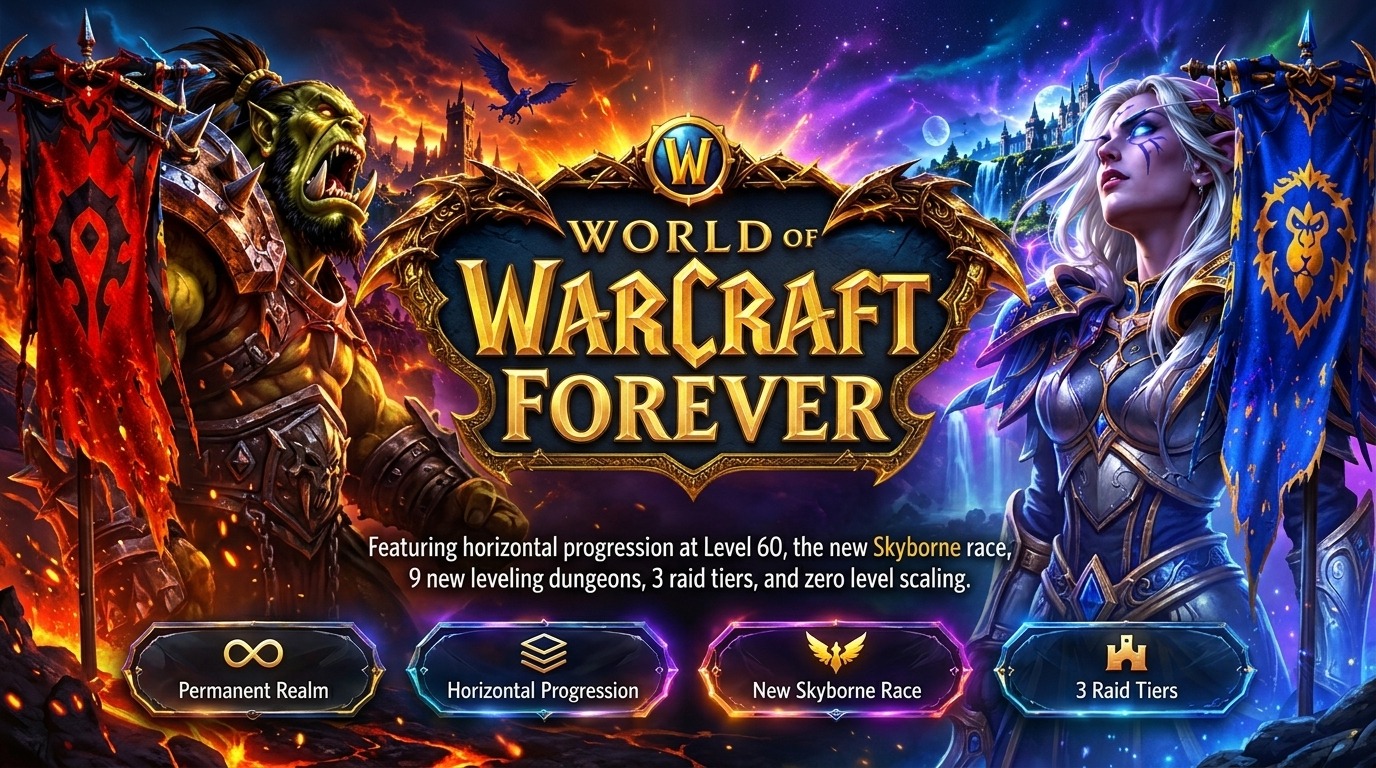
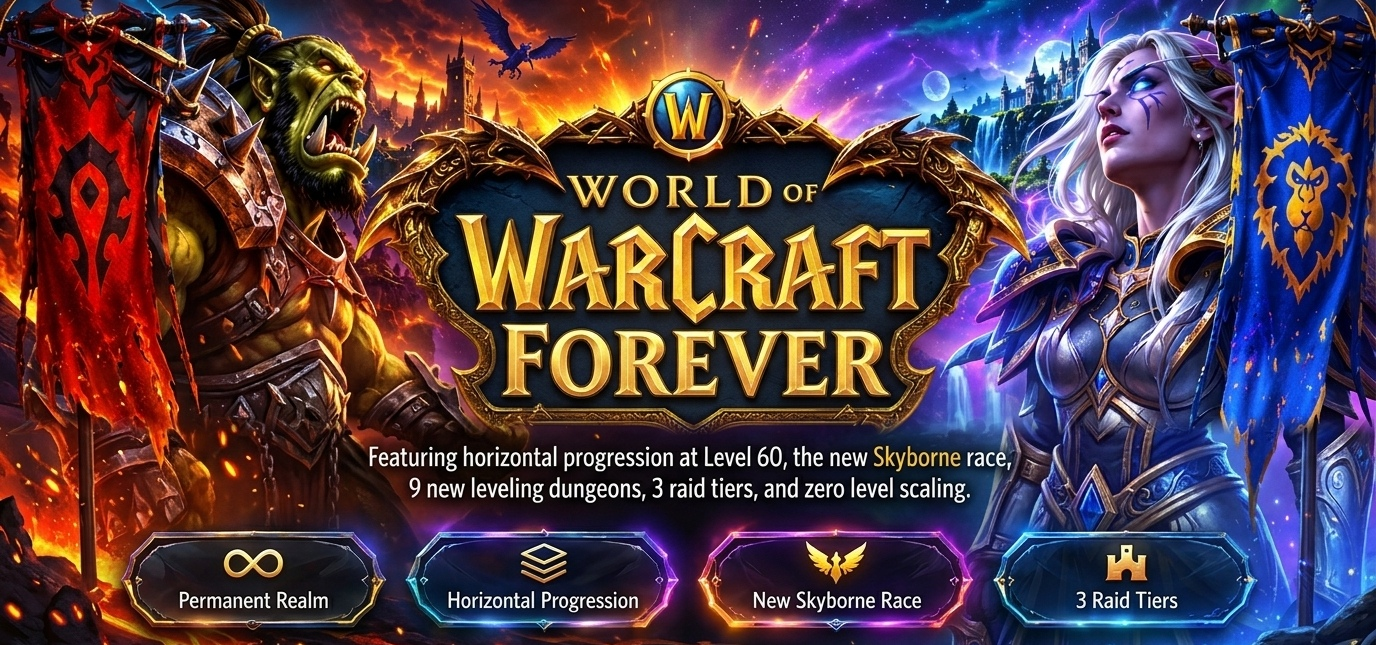
feat(ui): relocate live status bar and 21-button command console below hero graphic

diff --git a/website/index.html b/website/index.html
@@ -171,199 +171,9 @@
         
         <!-- Hero Stage with Cinematic Dual-Faction Backdrop -->
         <div class="hub-hero-stage">
-          <img src="images/branding/hub/hub-hero-banner.jpg" class="hub-hero-banner-img" alt="World of Warcraft: Forever — The Permanent Classic+ Adventure" width="1376" height="768">
+          <img src="images/branding/hub/hub-hero-banner.jpg" class="hub-hero-banner-img" alt="World of Warcraft: Forever — The Permanent Classic+ Adventure" width="1376" height="645">
         </div>
 
-        <!-- 5 Main Feature Portal Cards -->
-        <div class="hub-cards-grid">
-          
-          <!-- Card 1: Getting Started (Amber/Gold) -->
-          <div class="hub-card hub-card-amber" data-target-tab="guides" role="button" tabindex="0" aria-label="Getting Started - New to Forever? Start here.">
-            <div class="hub-card-bg" style="background-image: url('images/branding/hub/vibrant-card-getting-started.png');"></div>
-            <div class="hub-card-overlay"></div>
-            <div class="hub-card-body">
-              <div>
-                <h3 class="hub-card-title">Getting Started</h3>
-                <p class="hub-card-desc">New to Forever? Start here.</p>
-              </div>
-              <span class="hub-card-btn">Explore <span class="hub-card-btn-arrow">→</span></span>
-            </div>
-          </div>
-
-          <!-- Card 2: Classes & Builds (Blue/Azure) -->
-          <div class="hub-card hub-card-blue" data-target-tab="talents" role="button" tabindex="0" aria-label="Classes and Builds - Class guides, deep dives, and talent planning.">
-            <div class="hub-card-bg" style="background-image: url('images/branding/hub/vibrant-card-classes-builds.png');"></div>
-            <div class="hub-card-overlay"></div>
-            <div class="hub-card-body">
-              <div>
-                <h3 class="hub-card-title">Classes &amp; Builds</h3>
-                <p class="hub-card-desc">Class guides, deep dives, and talent planning.</p>
-              </div>
-              <span class="hub-card-btn">Explore <span class="hub-card-btn-arrow">→</span></span>
-            </div>
-          </div>
-
-          <!-- Card 3: Gear & Progression (Orange/Bronze) -->
-          <div class="hub-card hub-card-orange" data-target-tab="bis" role="button" tabindex="0" aria-label="Gear and Progression - Items, BiS lists, tier sets, and gearing paths.">
-            <div class="hub-card-bg" style="background-image: url('images/branding/hub/vibrant-card-gear-progression.png');"></div>
-            <div class="hub-card-overlay"></div>
-            <div class="hub-card-body">
-              <div>
-                <h3 class="hub-card-title">Gear &amp; Progression</h3>
-                <p class="hub-card-desc">Items, BiS lists, tier sets, and gearing paths.</p>
-              </div>
-              <span class="hub-card-btn">Explore <span class="hub-card-btn-arrow">→</span></span>
-            </div>
-          </div>
-
-          <!-- Card 4: World & Content (Emerald/Green) -->
-          <div class="hub-card hub-card-green" data-target-tab="codex" role="button" tabindex="0" aria-label="World and Content - Dungeons, raids, world content, and systems.">
-            <div class="hub-card-bg" style="background-image: url('images/branding/hub/vibrant-card-world-content.png');"></div>
-            <div class="hub-card-overlay"></div>
-            <div class="hub-card-body">
-              <div>
-                <h3 class="hub-card-title">World &amp; Content</h3>
-                <p class="hub-card-desc">Dungeons, raids, world content, and systems.</p>
-              </div>
-              <span class="hub-card-btn">Explore <span class="hub-card-btn-arrow">→</span></span>
-            </div>
-          </div>
-
-          <!-- Card 5: Tools & Resources (Arcane/Purple) -->
-          <div class="hub-card hub-card-purple" data-target-tab="tierlist" role="button" tabindex="0" aria-label="Tools and Resources - Calculators, trackers, and community tools.">
-            <div class="hub-card-bg" style="background-image: url('images/branding/hub/vibrant-card-tools-resources.png');"></div>
-            <div class="hub-card-overlay"></div>
-            <div class="hub-card-body">
-              <div>
-                <h3 class="hub-card-title">Tools &amp; Resources</h3>
-                <p class="hub-card-desc">Calculators, trackers, and community tools.</p>
-              </div>
-              <span class="hub-card-btn">Explore <span class="hub-card-btn-arrow">→</span></span>
-            </div>
-          </div>
-
-        </div>
-
-        <!-- Quick Access Ribbon -->
-        <div class="hub-quick-access-bar" aria-label="Quick Access Ribbon">
-          <span class="hub-quick-access-label">⚡ Quick Access</span>
-          <button type="button" class="hub-quick-access-btn qa-amber" data-target-tab="overview">
-            <span class="qa-icon">🏛</span> <span class="qa-btn-text">Operations Hub</span>
-          </button>
-          <button type="button" class="hub-quick-access-btn qa-blue" data-target-tab="guides">
-            <span class="qa-icon">📖</span> <span class="qa-btn-text">Classic+ Guide</span>
-          </button>
-          <button type="button" class="hub-quick-access-btn qa-green" data-target-tab="talents" id="quick-link-talent-calc">
-            <span class="qa-icon">⚡</span> <span class="qa-btn-text">Talents</span>
-          </button>
-          <button type="button" class="hub-quick-access-btn qa-purple" data-target-tab="tierlist">
-            <span class="qa-icon">🏆</span> <span class="qa-btn-text">Tier List Maker</span>
-          </button>
-          <button type="button" class="hub-quick-access-btn qa-purple" data-target-tab="database">
-            <span class="qa-icon">📦</span> <span class="qa-btn-text">Item DB &amp; Market</span>
-          </button>
-          <button type="button" class="hub-quick-access-btn qa-cyan" data-target-tab="downrank">
-            <span class="qa-icon">🧪</span> <span class="qa-btn-text">Downrank Calc</span>
-          </button>
-          <button type="button" class="hub-quick-access-btn qa-green" data-target-tab="changes">
-            <span class="qa-icon">🔄</span> <span class="qa-btn-text">What's Changed</span>
-          </button>
-          <button type="button" class="hub-quick-access-btn qa-orange" data-target-tab="addons">
-            <span class="qa-icon">🧩</span> <span class="qa-btn-text">Add-on Suite</span>
-          </button>
-          <button type="button" class="hub-quick-access-btn qa-blue" data-target-tab="tracker">
-            <span class="qa-icon">👥</span> <span class="qa-btn-text">Our Forever Squad</span>
-          </button>
-        </div>
-
-        <!-- 3-Column Bottom Deck -->
-        <div class="hub-bottom-deck">
-          
-          <!-- Column 1: Recent Updates -->
-          <div class="hub-deck-card">
-            <div>
-              <div class="hub-deck-card-header">
-                <span>📢</span> Recent Updates
-              </div>
-              <div class="hub-update-list">
-                <a class="hub-update-item" data-target-tab="news">
-                  <span class="hub-update-tag tag-blue">Update</span>
-                  <span class="hub-update-title">Skyborne Race Now Live</span>
-                  <span class="hub-update-date">Oct 30</span>
-                </a>
-                <a class="hub-update-item" data-target-tab="news">
-                  <span class="hub-update-tag tag-purple">Guide</span>
-                  <span class="hub-update-title">Phase 2 Raid Overview &amp; Prep</span>
-                  <span class="hub-update-date">Oct 28</span>
-                </a>
-                <a class="hub-update-item" data-target-tab="news">
-                  <span class="hub-update-tag tag-green">Tool</span>
-                  <span class="hub-update-title">Updated BiS Lists (All Classes)</span>
-                  <span class="hub-update-date">Oct 26</span>
-                </a>
-              </div>
-            </div>
-            <button type="button" class="hub-deck-footer-link" data-target-tab="news">
-              View All Updates →
-            </button>
-          </div>
-
-          <!-- Column 2: Featured Guide (Skyborne Race Guide) -->
-          <div class="hub-deck-card hub-featured-guide">
-            <div>
-              <div class="hub-featured-guide-badge">
-                <span>⚡</span> Featured Guide
-              </div>
-              <h3 class="hub-featured-guide-title">Skyborne Race Guide</h3>
-              <p class="hub-featured-guide-desc">
-                Racials, class synergies, and leveling tips for the new neutral faction race.
-              </p>
-            </div>
-            <div>
-              <button type="button" class="hub-card-btn hub-card-btn-featured" data-target-tab="guides" style="background: #38bdf8; color: #000; font-weight: 700; width: auto; padding: 0.45rem 1.25rem;">
-                Read Guide <span class="hub-card-btn-arrow">→</span>
-              </button>
-            </div>
-          </div>
-
-          <!-- Column 3: Community & External Tools -->
-          <div class="hub-deck-card">
-            <div>
-              <div class="hub-deck-card-header">
-                <span>👥</span> Community &amp; External Tools
-              </div>
-              <div class="hub-tools-grid">
-                <a href="https://foreverchanges.pro/" target="_blank" rel="noopener noreferrer" class="hub-tool-btn">
-                  <span>🌐</span> ForeverChanges
-                </a>
-                <a href="https://wowforevertools.com/" target="_blank" rel="noopener noreferrer" class="hub-tool-btn">
-                  <span>⚔</span> WoW Forever Tools
-                </a>
-                <a href="https://www.zockify.com/forever/" target="_blank" rel="noopener noreferrer" class="hub-tool-btn">
-                  <span>🧪</span> Zockify Forever
-                </a>
-                <a href="https://www.wowhead.com/forever" target="_blank" rel="noopener noreferrer" class="hub-tool-btn">
-                  <span>📖</span> Wowhead: Codex
-                </a>
-                <a href="https://mobalytics.gg/wow-forever" target="_blank" rel="noopener noreferrer" class="hub-tool-btn">
-                  <span>📊</span> Mobalytics: Meta
-                </a>
-                <a href="https://www.method.gg/wow-forever" target="_blank" rel="noopener noreferrer" class="hub-tool-btn">
-                  <span>🚀</span> Method.gg Launch
-                </a>
-              </div>
-            </div>
-            <a href="https://www.wowhead.com/forever" target="_blank" rel="noopener noreferrer" class="hub-deck-footer-link">
-              View All Resources →
-            </a>
-          </div>
-
-        </div>
-
-        <!-- Battlement Parapet Footer -->
-        <div class="hub-battlement-footer" aria-hidden="true"></div>
-
-      </section>
       <!-- Live Status & Event Horizon Bar -->
       <aside class="top-status-bar" aria-label="Game and Beta Status Bar" style="margin: 1.25rem 0 1rem; border-radius: var(--radius-md);">
         <div class="status-pulse-badge">
@@ -705,6 +515,196 @@
       </div>
 
 
+        <!-- 5 Main Feature Portal Cards -->
+        <div class="hub-cards-grid">
+          
+          <!-- Card 1: Getting Started (Amber/Gold) -->
+          <div class="hub-card hub-card-amber" data-target-tab="guides" role="button" tabindex="0" aria-label="Getting Started - New to Forever? Start here.">
+            <div class="hub-card-bg" style="background-image: url('images/branding/hub/vibrant-card-getting-started.png');"></div>
+            <div class="hub-card-overlay"></div>
+            <div class="hub-card-body">
+              <div>
+                <h3 class="hub-card-title">Getting Started</h3>
+                <p class="hub-card-desc">New to Forever? Start here.</p>
+              </div>
+              <span class="hub-card-btn">Explore <span class="hub-card-btn-arrow">→</span></span>
+            </div>
+          </div>
+
+          <!-- Card 2: Classes & Builds (Blue/Azure) -->
+          <div class="hub-card hub-card-blue" data-target-tab="talents" role="button" tabindex="0" aria-label="Classes and Builds - Class guides, deep dives, and talent planning.">
+            <div class="hub-card-bg" style="background-image: url('images/branding/hub/vibrant-card-classes-builds.png');"></div>
+            <div class="hub-card-overlay"></div>
+            <div class="hub-card-body">
+              <div>
+                <h3 class="hub-card-title">Classes &amp; Builds</h3>
+                <p class="hub-card-desc">Class guides, deep dives, and talent planning.</p>
+              </div>
+              <span class="hub-card-btn">Explore <span class="hub-card-btn-arrow">→</span></span>
+            </div>
+          </div>
+
+          <!-- Card 3: Gear & Progression (Orange/Bronze) -->
+          <div class="hub-card hub-card-orange" data-target-tab="bis" role="button" tabindex="0" aria-label="Gear and Progression - Items, BiS lists, tier sets, and gearing paths.">
+            <div class="hub-card-bg" style="background-image: url('images/branding/hub/vibrant-card-gear-progression.png');"></div>
+            <div class="hub-card-overlay"></div>
+            <div class="hub-card-body">
+              <div>
+                <h3 class="hub-card-title">Gear &amp; Progression</h3>
+                <p class="hub-card-desc">Items, BiS lists, tier sets, and gearing paths.</p>
+              </div>
+              <span class="hub-card-btn">Explore <span class="hub-card-btn-arrow">→</span></span>
+            </div>
+          </div>
+
+          <!-- Card 4: World & Content (Emerald/Green) -->
+          <div class="hub-card hub-card-green" data-target-tab="codex" role="button" tabindex="0" aria-label="World and Content - Dungeons, raids, world content, and systems.">
+            <div class="hub-card-bg" style="background-image: url('images/branding/hub/vibrant-card-world-content.png');"></div>
+            <div class="hub-card-overlay"></div>
+            <div class="hub-card-body">
+              <div>
+                <h3 class="hub-card-title">World &amp; Content</h3>
+                <p class="hub-card-desc">Dungeons, raids, world content, and systems.</p>
+              </div>
+              <span class="hub-card-btn">Explore <span class="hub-card-btn-arrow">→</span></span>
+            </div>
+          </div>
+
+          <!-- Card 5: Tools & Resources (Arcane/Purple) -->
+          <div class="hub-card hub-card-purple" data-target-tab="tierlist" role="button" tabindex="0" aria-label="Tools and Resources - Calculators, trackers, and community tools.">
+            <div class="hub-card-bg" style="background-image: url('images/branding/hub/vibrant-card-tools-resources.png');"></div>
+            <div class="hub-card-overlay"></div>
+            <div class="hub-card-body">
+              <div>
+                <h3 class="hub-card-title">Tools &amp; Resources</h3>
+                <p class="hub-card-desc">Calculators, trackers, and community tools.</p>
+              </div>
+              <span class="hub-card-btn">Explore <span class="hub-card-btn-arrow">→</span></span>
+            </div>
+          </div>
+
+        </div>
+
+        <!-- Quick Access Ribbon -->
+        <div class="hub-quick-access-bar" aria-label="Quick Access Ribbon">
+          <span class="hub-quick-access-label">⚡ Quick Access</span>
+          <button type="button" class="hub-quick-access-btn qa-amber" data-target-tab="overview">
+            <span class="qa-icon">🏛</span> <span class="qa-btn-text">Operations Hub</span>
+          </button>
+          <button type="button" class="hub-quick-access-btn qa-blue" data-target-tab="guides">
+            <span class="qa-icon">📖</span> <span class="qa-btn-text">Classic+ Guide</span>
+          </button>
+          <button type="button" class="hub-quick-access-btn qa-green" data-target-tab="talents" id="quick-link-talent-calc">
+            <span class="qa-icon">⚡</span> <span class="qa-btn-text">Talents</span>
+          </button>
+          <button type="button" class="hub-quick-access-btn qa-purple" data-target-tab="tierlist">
+            <span class="qa-icon">🏆</span> <span class="qa-btn-text">Tier List Maker</span>
+          </button>
+          <button type="button" class="hub-quick-access-btn qa-purple" data-target-tab="database">
+            <span class="qa-icon">📦</span> <span class="qa-btn-text">Item DB &amp; Market</span>
+          </button>
+          <button type="button" class="hub-quick-access-btn qa-cyan" data-target-tab="downrank">
+            <span class="qa-icon">🧪</span> <span class="qa-btn-text">Downrank Calc</span>
+          </button>
+          <button type="button" class="hub-quick-access-btn qa-green" data-target-tab="changes">
+            <span class="qa-icon">🔄</span> <span class="qa-btn-text">What's Changed</span>
+          </button>
+          <button type="button" class="hub-quick-access-btn qa-orange" data-target-tab="addons">
+            <span class="qa-icon">🧩</span> <span class="qa-btn-text">Add-on Suite</span>
+          </button>
+          <button type="button" class="hub-quick-access-btn qa-blue" data-target-tab="tracker">
+            <span class="qa-icon">👥</span> <span class="qa-btn-text">Our Forever Squad</span>
+          </button>
+        </div>
+
+        <!-- 3-Column Bottom Deck -->
+        <div class="hub-bottom-deck">
+          
+          <!-- Column 1: Recent Updates -->
+          <div class="hub-deck-card">
+            <div>
+              <div class="hub-deck-card-header">
+                <span>📢</span> Recent Updates
+              </div>
+              <div class="hub-update-list">
+                <a class="hub-update-item" data-target-tab="news">
+                  <span class="hub-update-tag tag-blue">Update</span>
+                  <span class="hub-update-title">Skyborne Race Now Live</span>
+                  <span class="hub-update-date">Oct 30</span>
+                </a>
+                <a class="hub-update-item" data-target-tab="news">
+                  <span class="hub-update-tag tag-purple">Guide</span>
+                  <span class="hub-update-title">Phase 2 Raid Overview &amp; Prep</span>
+                  <span class="hub-update-date">Oct 28</span>
+                </a>
+                <a class="hub-update-item" data-target-tab="news">
+                  <span class="hub-update-tag tag-green">Tool</span>
+                  <span class="hub-update-title">Updated BiS Lists (All Classes)</span>
+                  <span class="hub-update-date">Oct 26</span>
+                </a>
+              </div>
+            </div>
+            <button type="button" class="hub-deck-footer-link" data-target-tab="news">
+              View All Updates →
+            </button>
+          </div>
+
+          <!-- Column 2: Featured Guide (Skyborne Race Guide) -->
+          <div class="hub-deck-card hub-featured-guide">
+            <div>
+              <div class="hub-featured-guide-badge">
+                <span>⚡</span> Featured Guide
+              </div>
+              <h3 class="hub-featured-guide-title">Skyborne Race Guide</h3>
+              <p class="hub-featured-guide-desc">
+                Racials, class synergies, and leveling tips for the new neutral faction race.
+              </p>
+            </div>
+            <div>
+              <button type="button" class="hub-card-btn hub-card-btn-featured" data-target-tab="guides" style="background: #38bdf8; color: #000; font-weight: 700; width: auto; padding: 0.45rem 1.25rem;">
+                Read Guide <span class="hub-card-btn-arrow">→</span>
+              </button>
+            </div>
+          </div>
+
+          <!-- Column 3: Community & External Tools -->
+          <div class="hub-deck-card">
+            <div>
+              <div class="hub-deck-card-header">
+                <span>👥</span> Community &amp; External Tools
+              </div>
+              <div class="hub-tools-grid">
+                <a href="https://foreverchanges.pro/" target="_blank" rel="noopener noreferrer" class="hub-tool-btn">
+                  <span>🌐</span> ForeverChanges
+                </a>
+                <a href="https://wowforevertools.com/" target="_blank" rel="noopener noreferrer" class="hub-tool-btn">
+                  <span>⚔</span> WoW Forever Tools
+                </a>
+                <a href="https://www.zockify.com/forever/" target="_blank" rel="noopener noreferrer" class="hub-tool-btn">
+                  <span>🧪</span> Zockify Forever
+                </a>
+                <a href="https://www.wowhead.com/forever" target="_blank" rel="noopener noreferrer" class="hub-tool-btn">
+                  <span>📖</span> Wowhead: Codex
+                </a>
+                <a href="https://mobalytics.gg/wow-forever" target="_blank" rel="noopener noreferrer" class="hub-tool-btn">
+                  <span>📊</span> Mobalytics: Meta
+                </a>
+                <a href="https://www.method.gg/wow-forever" target="_blank" rel="noopener noreferrer" class="hub-tool-btn">
+                  <span>🚀</span> Method.gg Launch
+                </a>
+              </div>
+            </div>
+            <a href="https://www.wowhead.com/forever" target="_blank" rel="noopener noreferrer" class="hub-deck-footer-link">
+              View All Resources →
+            </a>
+          </div>
+
+        </div>
+
+        <!-- Battlement Parapet Footer -->
+        <div class="hub-battlement-footer" aria-hidden="true"></div>
+
+      </section>
       <!-- Countdowns Section - 4 Milestones -->
       <section class="countdown-section" aria-label="Release Countdowns">
         
